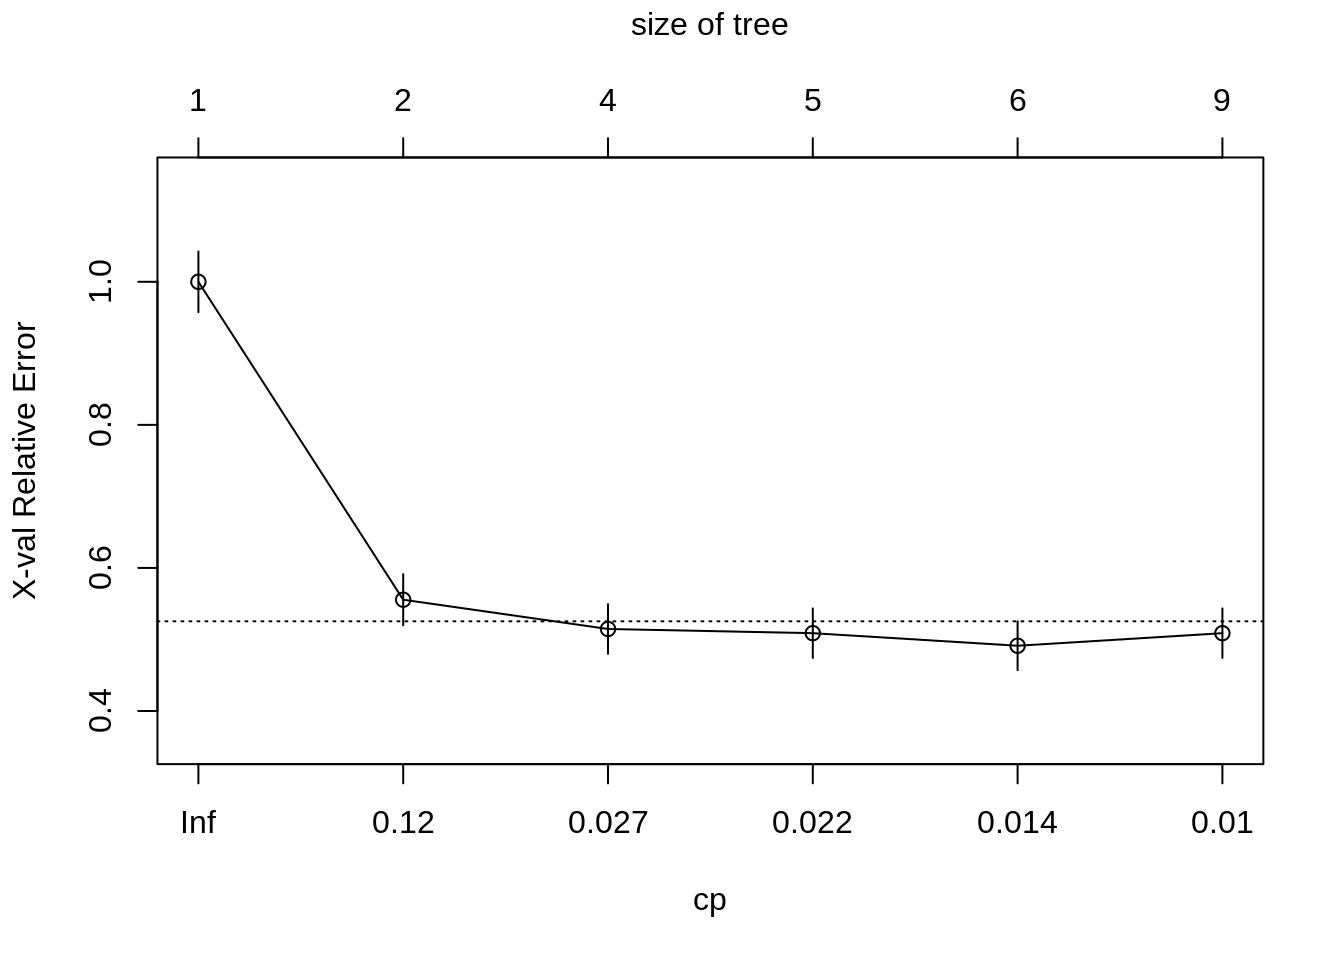
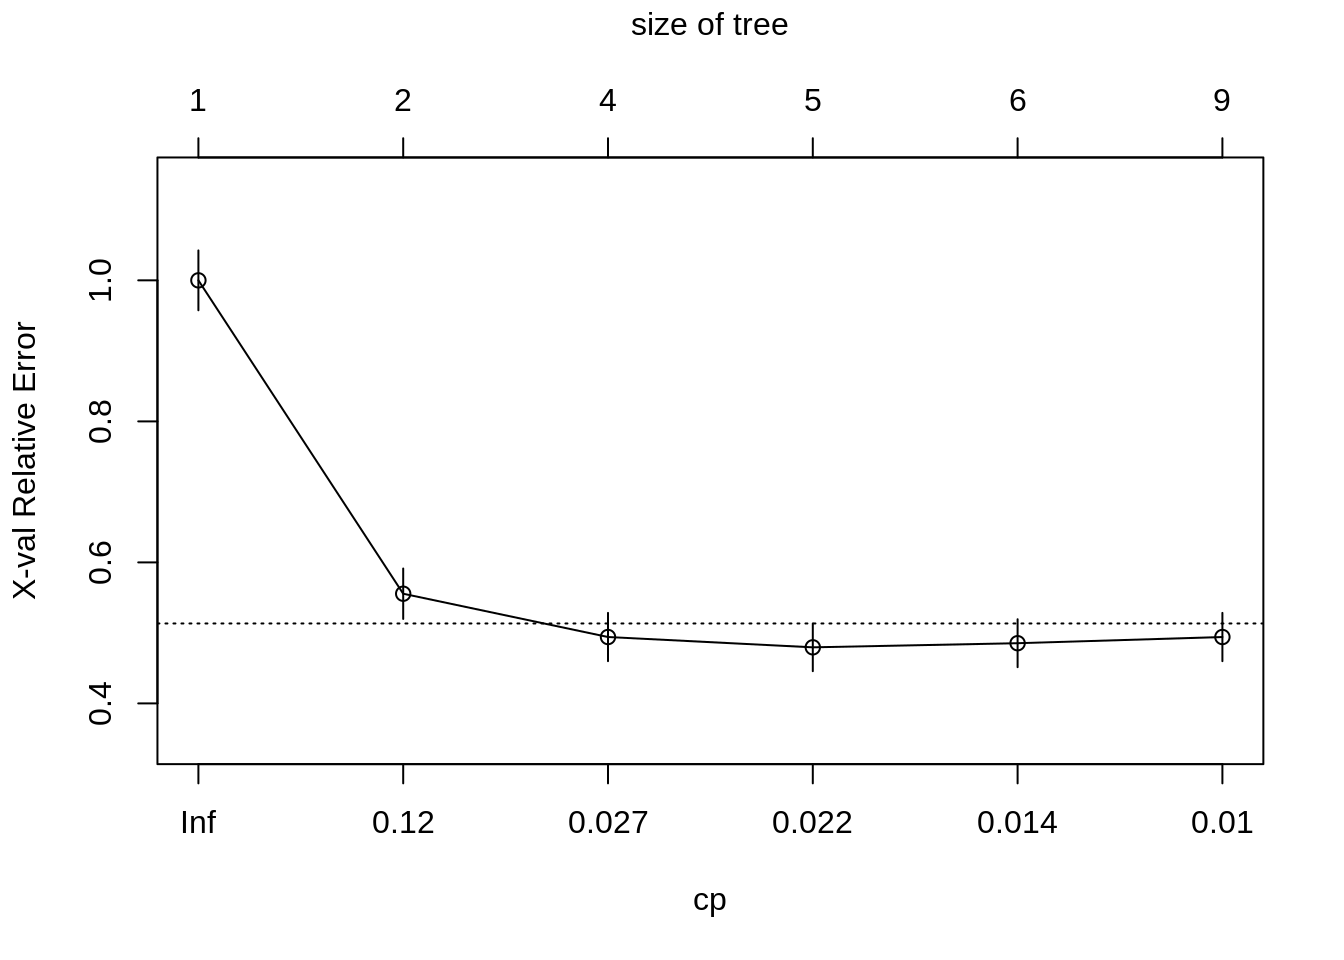
Deploy lebebr01/stat_thinking to github.com/lebebr01/stat_thinking.git:master

diff --git a/docs/descriptive-statistics-numerically-describing-the-sample-data.html b/docs/descriptive-statistics-numerically-describing-the-sample-data.html
@@ -561,6 +561,82 @@ Y = \begin{pmatrix}10 - 24\\ 10-24\\ 20-24\\ 30-24\\ 50-24\end{pmatrix} = \begin
 <pre><code>##   mae_adm_rate
 ## 1    0.1692953</code></pre>
 <!-- This is a test. -->
+<!-- ## Considering Groups -->
+<!-- We've spent a lot of time trying to reason about other variables that may be important in explaining variation in our variable of interest. So far we have only explored the variable without considering other variables, in practice that is not that useful. -->
+<!-- Instead, it is common to compute conditional statistics based on other characteristics in the data. An example may help to show the idea more clearly. -->
+<!-- ```{r} -->
+<!-- colleges %>% -->
+<!--   df_stats(adm_rate ~ region, median) -->
+<!-- ``` -->
+<!-- Presented above are the conditional medians for the higher education institutions in different areas of the country. More specifically, the data are essentially split into subgroups and the median is computed for each of those subgroups instead of pooling all institutions into a single data frame. The formula syntax is now `outcome ~ grouping` where the variable of interest (i.e. commonly a numeric variable) and the variable to the right of the `~` is the grouping variable. This syntax is similar to the violin plots that were created earlier. -->
+<!-- Can you see differences in the admission rates across the regions? -->
+<!-- One thing that is useful to add in when computing conditional statisics, is how many data points are in each group. This is particularly useful when the groups are different sizes, which is common. To do this, we can add another function to the `df_stats()` function. -->
+<!-- ```{r} -->
+<!-- colleges %>% -->
+<!--   df_stats(adm_rate ~ region, median, length) -->
+<!-- ``` -->
+<!-- This adds another columns which represents the number of observations that went into the median calculation for each group. The syntax above also shows that you can add additional functions separated by a comma in the `df_stats()` function and are not limited to a single function. We will take advantage of this feature later on. -->
+<!-- ### Adding additional groups -->
+<!-- What if we thought more than one variable was important in explaining variation in the outcome variable? These can also be added to the `df_stats()` function for additional conditional statistics. The key is to add another variable to the right-hand side of the formula argument. More than one variable are separated with a `+` symbol. -->
+<!-- ```{r} -->
+<!-- colleges %>% -->
+<!--   df_stats(adm_rate ~ region + preddeg, median, length) -->
+<!-- ``` -->
+<!-- ## Other statistics of center -->
+<!-- So far we have been discussing the median. The median attempts to provide a single number summary for the center of the distribution. It is a robust statistic, but likely isn't the most popular statistic to provide a location for the center of a distribution. The mean is often more commonly used as a measure of the center of a distribution. Part of this is due to the usage of the mean in common statistical methods and the mean also uses the values of all the data in the calculation. The median only considers the values of the middle score or scores, therefore this statistic is less sensitive to extreme values than the mean. I like to look at both statistics and this can provide some insight into the distribution of interest. We can add the mean using the `df_stats()` function by adding the function `mean`. -->
+<!-- ```{r} -->
+<!-- stats_compute <- colleges %>% -->
+<!--   df_stats(adm_rate ~ region, median, mean, length) -->
+<!-- stats_compute -->
+<!-- ``` -->
+<!-- Do you notice any trends in the direction the mean and median typically follow? More specifically, is the mean typically larger than the median or vice versa? -->
+<!-- Let's visualize them. -->
+<!-- ```{r} -->
+<!-- gf_histogram(~ adm_rate, data = colleges, bins = 30) %>% -->
+<!--   gf_facet_wrap(~ region) %>% -->
+<!--   gf_vline(color = 'blue', xintercept = ~ median_adm_rate, data = stats_compute, size = 1) %>% -->
+<!--   gf_vline(color = 'lightblue', xintercept = ~ mean_adm_rate, data = stats_compute, size = 1) -->
+<!-- ``` -->
+<!-- What is different about the distributions that have larger differences in the mean and median? -->
+<!-- ## Measures of Variation -->
+<!-- So far we have focused primarily on applying functions to columns of data to provide a single numeric summary for where the center of the distribution may lie. The center of the distribution is important, however the primary goal in research and with statistics is to try to understand the variation in the distribution. -->
+<!-- One crude measure of variation that is intuitive is the range of a variable. The range is the difference between the smallest and the largest number in the data. We can compute this with the `df_stats()` function. -->
+<!-- ```{r} -->
+<!-- colleges %>% -->
+<!--   df_stats(~ adm_rate, range) -->
+<!-- ``` -->
+<!-- The details of the `df_stats()` function are in the previous course notes. The output for this computation returns two values, the minimum and maximum value in the data and unsurprisingly, is 0 and 1 respectively.  -->
+<!-- ### Robust measure of variation -->
+<!-- The idea behind the IQR representing differences in percentiles allows us to extend this to different percentiles that may be more directly interpretable for a given situation. For example, suppose we wanted to know how spread out the middle 80% of the distribution is. We can do this directly by computing the 90th and 10th percentiles and finding the difference between the two. -->
+<!-- ```{r} -->
+<!-- mid_80 <- colleges %>% -->
+<!--   df_stats(~ adm_rate, quantile(c(0.1, 0.9)), nice_names = TRUE) -->
+<!-- mid_80 -->
+<!-- ``` -->
+<!-- As you can see, once you extend the amount of the distribution contained, the distance increases, now to 0.555 or 55.5% the the range of the middle 80% of the admission rate distribution. We can also visualize what this looks like. -->
+<!-- ```{r} -->
+<!-- gf_histogram(~ adm_rate, data = colleges, bins = 30, color = 'black') %>% -->
+<!--   gf_vline(color = 'blue', xintercept = ~ value, data = gather(mid_80), size = 1) -->
+<!-- ``` -->
+<!-- We can also view the exact percentages using the empirical cumulative density function. -->
+<!-- ```{r} -->
+<!-- gf_ecdf(~ adm_rate, data = colleges) %>% -->
+<!--   gf_vline(color = 'blue', xintercept = ~ value, data = gather(mid_80), size = 1) -->
+<!-- ``` -->
+<!-- ### Variation by Group -->
+<!-- These statistics can also be calculated by different grouping variables similar to what was done with statisitcs of center. Now the variable of interest is on the left-hand side of the equation and the grouping variable is on the right hand side. -->
+<!-- ```{r} -->
+<!-- iqr_groups <- colleges %>% -->
+<!--   df_stats(adm_rate ~ region, IQR, quantile(c(0.25, 0.75)), nice_names = TRUE) -->
+<!-- iqr_groups -->
+<!-- ``` -->
+<!-- This can also be visualized to see how these statistics vary across the groups. -->
+<!-- ```{r} -->
+<!-- gf_histogram(~ adm_rate, data = colleges, bins = 30, color = 'black') %>% -->
+<!--   gf_vline(color = 'blue', xintercept = ~ value,  -->
+<!--      data = filter(pivot_longer(iqr_groups, IQR_adm_rate:'X75.'), name %in% c('X25.', 'X75.')), size = 1) %>% -->
+<!--   gf_facet_wrap(~ region) -->
+<!-- ``` -->
 
 </div>
 </div>

diff --git a/docs/classification.html b/docs/classification.html
@@ -324,10 +324,10 @@ titanic &lt;-<span class="st"> </span><span class="kw">bind_rows</span>(titanic_
 ##         CP nsplit rel error  xerror     xstd
 ## 1 0.444444      0   1.00000 1.00000 0.042446
 ## 2 0.030702      1   0.55556 0.55556 0.035750
-## 3 0.023392      3   0.49415 0.51462 0.034749
-## 4 0.020468      4   0.47076 0.50877 0.034599
-## 5 0.010234      5   0.45029 0.49123 0.034140
-## 6 0.010000      8   0.41813 0.50877 0.034599</code></pre>
+## 3 0.023392      3   0.49415 0.49415 0.034217
+## 4 0.020468      4   0.47076 0.47953 0.033824
+## 5 0.010234      5   0.45029 0.48538 0.033983
+## 6 0.010000      8   0.41813 0.49415 0.034217</code></pre>
 <div class="sourceCode"><pre class="sourceCode r"><code class="sourceCode r"><span class="kw">plotcp</span>(class_tree)</code></pre></div>
 <p><img src="05-classification_files/figure-html/unnamed-chunk-6-1.png" width="672" /></p>
 <div class="sourceCode"><pre class="sourceCode r"><code class="sourceCode r">prune_class_tree &lt;-<span class="st"> </span><span class="kw">prune</span>(class_tree, <span class="dt">cp =</span> .<span class="dv">02</span>)

diff --git a/docs/03-descriptive.md b/docs/03-descriptive.md
@@ -711,3 +711,112 @@ colleges %>%
 
 <!-- This is a test. -->
 
+<!-- ## Considering Groups -->
+<!-- We've spent a lot of time trying to reason about other variables that may be important in explaining variation in our variable of interest. So far we have only explored the variable without considering other variables, in practice that is not that useful. -->
+
+<!-- Instead, it is common to compute conditional statistics based on other characteristics in the data. An example may help to show the idea more clearly. -->
+
+<!-- ```{r} -->
+<!-- colleges %>% -->
+<!--   df_stats(adm_rate ~ region, median) -->
+<!-- ``` -->
+
+<!-- Presented above are the conditional medians for the higher education institutions in different areas of the country. More specifically, the data are essentially split into subgroups and the median is computed for each of those subgroups instead of pooling all institutions into a single data frame. The formula syntax is now `outcome ~ grouping` where the variable of interest (i.e. commonly a numeric variable) and the variable to the right of the `~` is the grouping variable. This syntax is similar to the violin plots that were created earlier. -->
+
+<!-- Can you see differences in the admission rates across the regions? -->
+
+<!-- One thing that is useful to add in when computing conditional statisics, is how many data points are in each group. This is particularly useful when the groups are different sizes, which is common. To do this, we can add another function to the `df_stats()` function. -->
+
+<!-- ```{r} -->
+<!-- colleges %>% -->
+<!--   df_stats(adm_rate ~ region, median, length) -->
+<!-- ``` -->
+
+<!-- This adds another columns which represents the number of observations that went into the median calculation for each group. The syntax above also shows that you can add additional functions separated by a comma in the `df_stats()` function and are not limited to a single function. We will take advantage of this feature later on. -->
+
+<!-- ### Adding additional groups -->
+<!-- What if we thought more than one variable was important in explaining variation in the outcome variable? These can also be added to the `df_stats()` function for additional conditional statistics. The key is to add another variable to the right-hand side of the formula argument. More than one variable are separated with a `+` symbol. -->
+
+<!-- ```{r} -->
+<!-- colleges %>% -->
+<!--   df_stats(adm_rate ~ region + preddeg, median, length) -->
+<!-- ``` -->
+
+<!-- ## Other statistics of center -->
+<!-- So far we have been discussing the median. The median attempts to provide a single number summary for the center of the distribution. It is a robust statistic, but likely isn't the most popular statistic to provide a location for the center of a distribution. The mean is often more commonly used as a measure of the center of a distribution. Part of this is due to the usage of the mean in common statistical methods and the mean also uses the values of all the data in the calculation. The median only considers the values of the middle score or scores, therefore this statistic is less sensitive to extreme values than the mean. I like to look at both statistics and this can provide some insight into the distribution of interest. We can add the mean using the `df_stats()` function by adding the function `mean`. -->
+
+<!-- ```{r} -->
+<!-- stats_compute <- colleges %>% -->
+<!--   df_stats(adm_rate ~ region, median, mean, length) -->
+<!-- stats_compute -->
+<!-- ``` -->
+
+<!-- Do you notice any trends in the direction the mean and median typically follow? More specifically, is the mean typically larger than the median or vice versa? -->
+
+<!-- Let's visualize them. -->
+
+<!-- ```{r} -->
+<!-- gf_histogram(~ adm_rate, data = colleges, bins = 30) %>% -->
+<!--   gf_facet_wrap(~ region) %>% -->
+<!--   gf_vline(color = 'blue', xintercept = ~ median_adm_rate, data = stats_compute, size = 1) %>% -->
+<!--   gf_vline(color = 'lightblue', xintercept = ~ mean_adm_rate, data = stats_compute, size = 1) -->
+<!-- ``` -->
+
+<!-- What is different about the distributions that have larger differences in the mean and median? -->
+
+<!-- ## Measures of Variation -->
+
+<!-- So far we have focused primarily on applying functions to columns of data to provide a single numeric summary for where the center of the distribution may lie. The center of the distribution is important, however the primary goal in research and with statistics is to try to understand the variation in the distribution. -->
+
+<!-- One crude measure of variation that is intuitive is the range of a variable. The range is the difference between the smallest and the largest number in the data. We can compute this with the `df_stats()` function. -->
+
+<!-- ```{r} -->
+<!-- colleges %>% -->
+<!--   df_stats(~ adm_rate, range) -->
+<!-- ``` -->
+
+<!-- The details of the `df_stats()` function are in the previous course notes. The output for this computation returns two values, the minimum and maximum value in the data and unsurprisingly, is 0 and 1 respectively.  -->
+
+<!-- ### Robust measure of variation -->
+<!-- The idea behind the IQR representing differences in percentiles allows us to extend this to different percentiles that may be more directly interpretable for a given situation. For example, suppose we wanted to know how spread out the middle 80% of the distribution is. We can do this directly by computing the 90th and 10th percentiles and finding the difference between the two. -->
+
+<!-- ```{r} -->
+<!-- mid_80 <- colleges %>% -->
+<!--   df_stats(~ adm_rate, quantile(c(0.1, 0.9)), nice_names = TRUE) -->
+<!-- mid_80 -->
+<!-- ``` -->
+
+<!-- As you can see, once you extend the amount of the distribution contained, the distance increases, now to 0.555 or 55.5% the the range of the middle 80% of the admission rate distribution. We can also visualize what this looks like. -->
+
+<!-- ```{r} -->
+<!-- gf_histogram(~ adm_rate, data = colleges, bins = 30, color = 'black') %>% -->
+<!--   gf_vline(color = 'blue', xintercept = ~ value, data = gather(mid_80), size = 1) -->
+<!-- ``` -->
+
+<!-- We can also view the exact percentages using the empirical cumulative density function. -->
+
+<!-- ```{r} -->
+<!-- gf_ecdf(~ adm_rate, data = colleges) %>% -->
+<!--   gf_vline(color = 'blue', xintercept = ~ value, data = gather(mid_80), size = 1) -->
+<!-- ``` -->
+
+<!-- ### Variation by Group -->
+<!-- These statistics can also be calculated by different grouping variables similar to what was done with statisitcs of center. Now the variable of interest is on the left-hand side of the equation and the grouping variable is on the right hand side. -->
+
+<!-- ```{r} -->
+<!-- iqr_groups <- colleges %>% -->
+<!--   df_stats(adm_rate ~ region, IQR, quantile(c(0.25, 0.75)), nice_names = TRUE) -->
+<!-- iqr_groups -->
+<!-- ``` -->
+
+<!-- This can also be visualized to see how these statistics vary across the groups. -->
+
+<!-- ```{r} -->
+<!-- gf_histogram(~ adm_rate, data = colleges, bins = 30, color = 'black') %>% -->
+<!--   gf_vline(color = 'blue', xintercept = ~ value,  -->
+<!--      data = filter(pivot_longer(iqr_groups, IQR_adm_rate:'X75.'), name %in% c('X25.', 'X75.')), size = 1) %>% -->
+<!--   gf_facet_wrap(~ region) -->
+<!-- ``` -->
+
+
+

diff --git a/docs/05-classification.md b/docs/05-classification.md
@@ -249,10 +249,10 @@ printcp(class_tree)
 ##         CP nsplit rel error  xerror     xstd
 ## 1 0.444444      0   1.00000 1.00000 0.042446
 ## 2 0.030702      1   0.55556 0.55556 0.035750
-## 3 0.023392      3   0.49415 0.51462 0.034749
-## 4 0.020468      4   0.47076 0.50877 0.034599
-## 5 0.010234      5   0.45029 0.49123 0.034140
-## 6 0.010000      8   0.41813 0.50877 0.034599
+## 3 0.023392      3   0.49415 0.49415 0.034217
+## 4 0.020468      4   0.47076 0.47953 0.033824
+## 5 0.010234      5   0.45029 0.48538 0.033983
+## 6 0.010000      8   0.41813 0.49415 0.034217
 ```
 
 ```r
